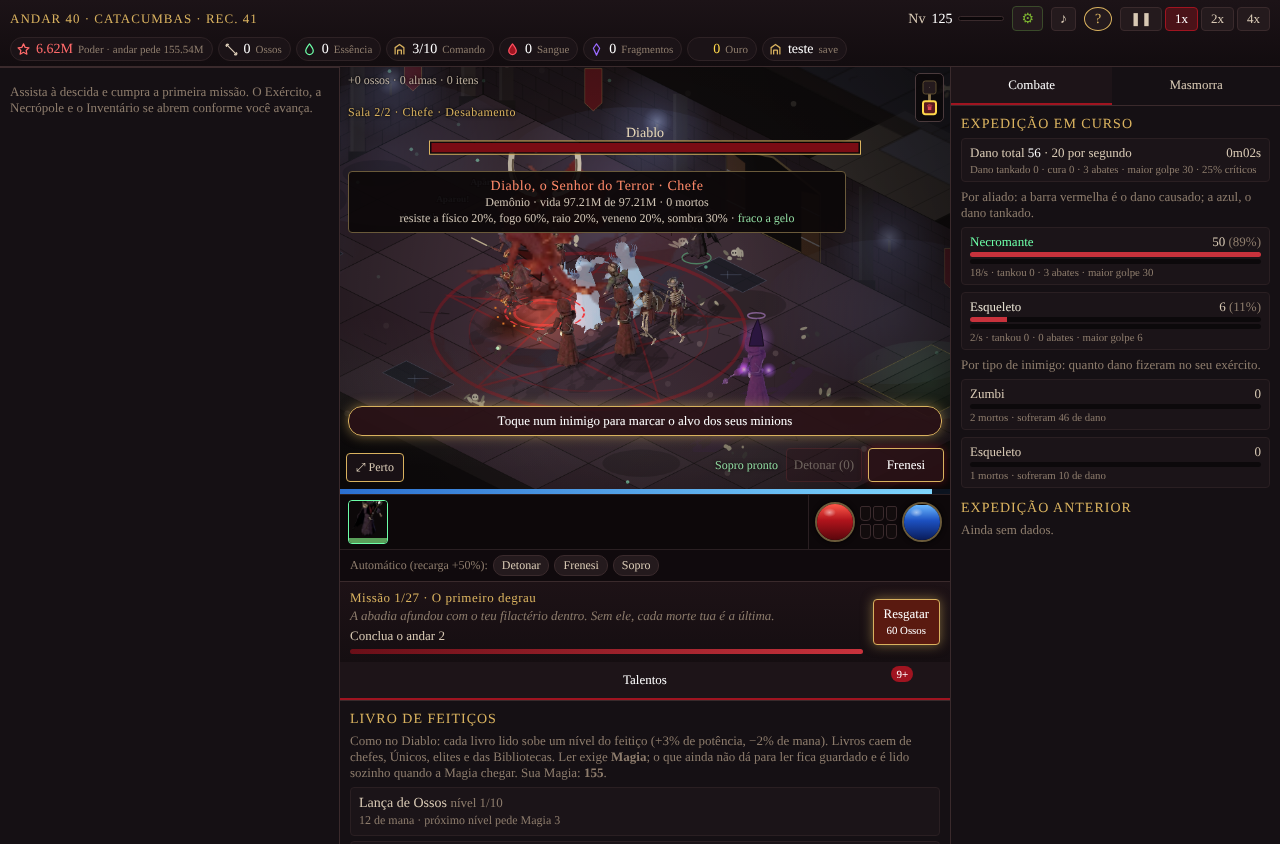
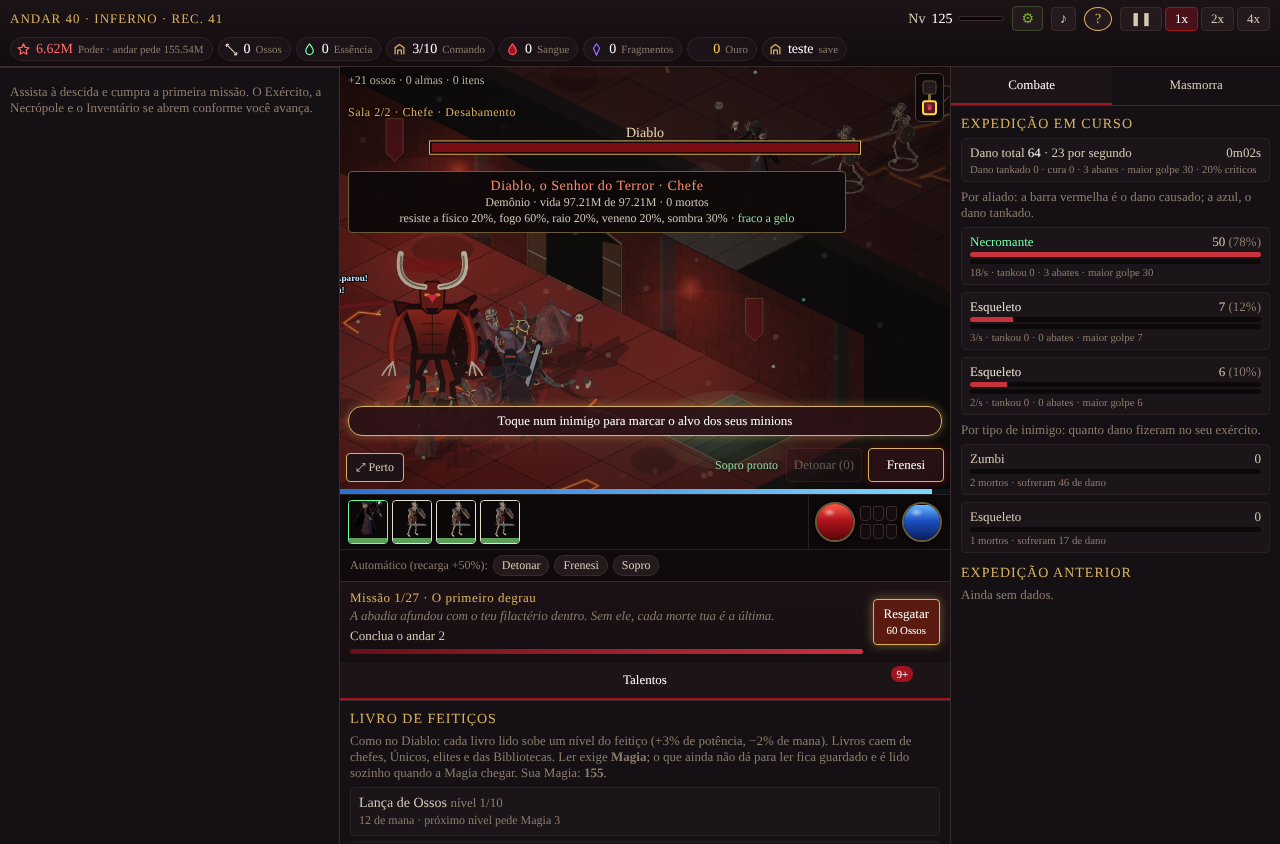
Diablo desenhado em vetor (chifres, garras, casco, cauda) e anel do Apocalipse
Claude-Session: https://claude.ai/code/session_01Bt9MtRAEw1Tz8zrHpBCPCF

diff --git a/docs/jogo.js b/docs/jogo.js
@@ -447,7 +447,7 @@ function evento(v) {
     return;
   }
   if (tipo === 'EfeitoAplicado' && v[14] === '43') {
-    tremor = Math.max(tremor, 0.6); clarao = Math.max(clarao, 0.45); som('chefe');
+    tremor = Math.max(tremor, 0.6); clarao = Math.max(clarao, 0.45); som('chefe'); apocFx.push({ p: [+v[10] + so[0], +v[11] + so[1]], r: +v[4] || 4.5, t: performance.now() }); if (apocFx.length > 4) apocFx.shift();
     vistosDeEspecie = vistosDeEspecie || {}; if (!vistosDeEspecie['43']) { vistosDeEspecie['43'] = 1; aviso('Apocalipse! · o fogo de Diablo fere todos em volta dele'); }
     return;
   }
@@ -745,7 +745,7 @@ let santuariosVistos = 0;
 let quebraveis = [];   // objetos quebráveis do andar: [sala, tipo, x, y, quebrado]
 const nomesUnicos = new Map();   // id da entidade -> nome próprio do monstro único
 let manaAbs = [0, 0], cintoMax = 3;
-let vistosDeEspecie = null, cintoHud = null, portalFx = null, muralhasFx = [], raiosFx = [], teleFx = [];
+let vistosDeEspecie = null, cintoHud = null, portalFx = null, muralhasFx = [], raiosFx = [], teleFx = [], apocFx = [];
 let bencaos = null, bencaosMostradas = '', aEspera = [];   // aEspera: inimigos já postos nas salas do andar, ainda adormecidos
 let masm = { fase: '', sala: 0, amb: 0, bencao: 0, secreto: false, ox: 0, oy: 0, tipos: [] }, salasChave = '', transicao = 0, objeto = null, perigos = [], diario = [], dicaSala = true;   // as lições de toque (LICOES) já ensinam isto
 let explor = { salas: 0, baus: 0, toques: 0, secretos: 0 };
@@ -837,8 +837,45 @@ function eventoDeSala(tipo, v, x, y) {
   else if (ts === 6) { aviso('Emboscada vencida · +' + fmt(Math.round(val)) + ' Ossos'); anotar(`Emboscada vencida: +${fmt(Math.round(val))} Ossos${toque ? ' e um item' : ''}.`); }
   else if (ts === 8) { aviso((NOME_SECRETO[sub] || 'Nível secreto') + ': tesouro tomado!'); anotar(`${NOME_SECRETO[sub] || 'Nível secreto'} limpo: +${fmt(Math.round(val))} Ossos, ${sub === 2 ? '3 itens (com chance de Lendário)' : '2 itens (um Raro)'} e Sangue.`); clarao = 0.6; brilho('#ffd84a', 80); }
 }
+// ---- Diablo, o Senhor do Terror: desenhado inteiro em vetor (não há sprite dele). Origem nos pés; u = pixels por unidade do desenho ----
+function desenharDiablo(px, py, u, s, alfa) {
+  const t = performance.now() / 1000, anim = String(s.anim || ''), conj = /Conjur/.test(anim), ataca = /Atac/.test(anim), anda = /And/.test(anim);
+  const resp = Math.sin(t * 2.2) * 2, passo = anda ? Math.sin(t * 9) : 0, lado = necro && necro.x > s.x ? 1 : -1, inclina = ataca ? 0.12 * Math.sin((tempoSim - (s.t || 0)) * 14) : 0;
+  const P2 = (x, y) => [px + x * u * lado, py + y * u];
+  const forma = (pts, cor, borda) => { ctx.beginPath(); pts.forEach(([x, y], k) => { const [qx, qy] = P2(x, y); if (k) ctx.lineTo(qx, qy); else ctx.moveTo(qx, qy); }); ctx.closePath(); if (cor) { ctx.fillStyle = cor; ctx.fill(); } if (borda) { ctx.strokeStyle = borda; ctx.stroke(); } };
+  const curva = (a, c, b, cor, larg) => { const [ax, ay] = P2(a[0], a[1]), [cx, cy] = P2(c[0], c[1]), [bx, by] = P2(b[0], b[1]); ctx.strokeStyle = cor; ctx.lineWidth = larg * u; ctx.beginPath(); ctx.moveTo(ax, ay); ctx.quadraticCurveTo(cx, cy, bx, by); ctx.stroke(); };
+  ctx.save(); ctx.globalAlpha = alfa; ctx.lineJoin = 'round'; ctx.lineCap = 'round'; ctx.lineWidth = 2;
+  if (alfa >= 1) {             // sombra e brasa no chão
+    ctx.fillStyle = 'rgba(0,0,0,0.5)'; ctx.beginPath(); ctx.ellipse(px, py, 62 * u, 24 * u, 0, 0, 7); ctx.fill();
+    const g = ctx.createRadialGradient(px, py, 4, px, py, 110 * u); g.addColorStop(0, `rgba(255,90,20,${0.30 + 0.08 * Math.sin(t * 3)})`); g.addColorStop(1, 'rgba(160,20,0,0)');
+    ctx.globalCompositeOperation = 'lighter'; ctx.fillStyle = g; ctx.beginPath(); ctx.ellipse(px, py, 110 * u, 50 * u, 0, 0, 7); ctx.fill(); ctx.globalCompositeOperation = 'source-over';
+  }
+  const escuro = '#3a0707', medio = '#7a1410', claro = '#b02a1c', traco = '#160303';
+  curva([-14, -70], [-70, -20 + 6 * Math.sin(t * 2)], [-92, -66 + 8 * Math.sin(t * 2)], escuro, 9); forma([[-92, -82 + 8 * Math.sin(t * 2)], [-102, -62 + 8 * Math.sin(t * 2)], [-84, -62 + 8 * Math.sin(t * 2)]], escuro, traco);
+  for (let q = 0; q < 5; q++) forma([[-30 - q * 3, -150 + q * 20], [-64 - q * 2, -168 + q * 21], [-30 - q * 3, -132 + q * 20]], escuro, traco);    // crista
+  forma([[-24, -84], [-40, -44 + passo * 4], [-30, -40 + passo * 4], [-34, -4], [-12, -4], [-16, -40], [-4, -84]], medio, traco);                 // perna de trás
+  forma([[4, -84], [22, -44 - passo * 4], [14, -40 - passo * 4], [14, -4], [36, -4], [30, -40], [28, -84]], medio, traco);
+  forma([[-36, 0], [-34, -8], [-10, -8], [-8, 0]], '#1a1010', traco); forma([[12, 0], [14, -8], [38, -8], [40, 0]], '#1a1010', traco);                // cascos
+  const gt = ctx.createLinearGradient(px, py - 156 * u, px, py - 76 * u); gt.addColorStop(0, claro); gt.addColorStop(1, escuro);
+  forma([[-46, -152 + resp], [46, -152 + resp], [30, -112], [24, -78], [-24, -78], [-30, -112]], gt, traco);                                           // tronco
+  ctx.strokeStyle = 'rgba(20,3,3,0.7)'; ctx.lineWidth = 1.5 * u; for (const yy of [-128, -112, -96]) { ctx.beginPath(); const [a1, b1] = P2(-16, yy), [a2, b2] = P2(16, yy); ctx.moveTo(a1, b1); ctx.lineTo(a2, b2); ctx.stroke(); }
+  { const [a1, b1] = P2(0, -146), [a2, b2] = P2(0, -84); ctx.beginPath(); ctx.moveTo(a1, b1); ctx.lineTo(a2, b2); ctx.stroke(); }
+  for (const l of [-1, 1]) {                                                                                                                           // braços e garras
+    const om = [l * 46, -146 + resp], cot = conj ? [l * 72, -176] : ataca && l === 1 ? [l * 78, -128] : [l * 68, -106], mao = conj ? [l * 62, -214 + 4 * Math.sin(t * 18)] : ataca && l === 1 ? [l * 104, -118 + inclina * 80] : [l * 60, -68 + resp];
+    curva(om, cot, mao, medio, 15); curva(om, cot, mao, claro, 6);
+    for (const dq of [-7, 0, 7]) curva(mao, [mao[0] + l * 4 + dq, mao[1] + (conj ? -10 : 10)], [mao[0] + l * 6 + dq * 1.4, mao[1] + (conj ? -20 : 20)], '#e8dcc8', 2.5);
+    forma([[l * 34, -156 + resp], [l * 58, -160 + resp], [l * 52, -138 + resp]], escuro, traco);                                                       // ombreira de osso
+  }
+  forma([[-17, -150 + resp], [-19, -176 + resp], [-9, -190 + resp], [9, -190 + resp], [19, -176 + resp], [17, -150 + resp], [8, -142 + resp], [-8, -142 + resp]], medio, traco);   // cabeça
+  forma([[-10, -150 + resp], [10, -150 + resp], [5, -140 + resp], [-5, -140 + resp]], '#12060a', null);                                                 // boca
+  for (const l of [-1, 1]) { curva([l * 12, -182 + resp], [l * 58, -184 + resp], [l * 48, -232 + resp], '#e8dcc8', 9); curva([l * 12, -182 + resp], [l * 54, -186 + resp], [l * 47, -228 + resp], '#8a7a66', 3); }   // chifres
+  ctx.globalCompositeOperation = 'lighter'; ctx.fillStyle = `rgba(255,220,90,${(0.8 + 0.2 * Math.sin(t * 7)) * alfa})`;
+  for (const l of [-1, 1]) { const [ex, ey] = P2(l * 8, -170 + resp); ctx.beginPath(); ctx.ellipse(ex, ey, 4.5 * u, 2.5 * u, 0, 0, 7); ctx.fill(); }
+  if (conj) { const [cx2, cy2] = P2(0, -214); const gc = ctx.createRadialGradient(cx2, cy2, 0, cx2, cy2, 60 * u); gc.addColorStop(0, 'rgba(255,230,150,0.8)'); gc.addColorStop(0.4, 'rgba(255,110,20,0.5)'); gc.addColorStop(1, 'rgba(160,20,0,0)'); ctx.fillStyle = gc; ctx.beginPath(); ctx.arc(cx2, cy2, 60 * u, 0, 7); ctx.fill(); }
+  ctx.restore(); ctx.lineWidth = 1;
+}
 // ---- silhueta própria dos monstros que ainda usam um sprite emprestado: desenhada por trás (camada 0) e pela frente (camada 1) ----
-const ADORNOS = { Sucubo: 1, Magistrado: 1, CavaleiroNegro: 1, Lazarus: 1, Diablo: 1 };
+const ADORNOS = { Sucubo: 1, Magistrado: 1, CavaleiroNegro: 1, Lazarus: 1 };
 function adorno(especie, camada, px, py, e, id) {
   const t = performance.now() / 1000 + id * 0.37;
   ctx.save(); ctx.lineJoin = 'round'; ctx.lineCap = 'round';
@@ -1208,6 +1245,19 @@ function desenhar(dt) {
       ctx.restore(); ctx.lineWidth = 1;
     }
   }
+  if (apocFx.length) {      // Apocalipse: anel de fogo que se abre no chão até o raio do golpe
+    const agoraA = performance.now(); apocFx = apocFx.filter((a) => agoraA - a.t < 800);
+    ctx.save(); ctx.globalCompositeOperation = 'lighter'; ctx.lineJoin = 'round';
+    for (const a of apocFx) {
+      const fA = (agoraA - a.t) / 800, abre = Math.min(1, fA / 0.6), rA = a.r * (0.15 + 0.85 * abre), forcaA = 1 - Math.max(0, (fA - 0.6) / 0.4);
+      const volta = (raio) => { ctx.beginPath(); for (let k = 0; k <= 40; k++) { const an = k / 40 * Math.PI * 2, [qx, qy] = W(a.p[0] + Math.cos(an) * raio, a.p[1] + Math.sin(an) * raio); if (k) ctx.lineTo(qx, qy); else ctx.moveTo(qx, qy); } ctx.closePath(); };
+      volta(rA); ctx.fillStyle = `rgba(255,90,10,${0.16 * forcaA})`; ctx.fill();
+      ctx.strokeStyle = `rgba(255,140,30,${0.85 * forcaA})`; ctx.lineWidth = 9 * reforco; ctx.stroke();
+      ctx.strokeStyle = `rgba(255,240,180,${0.9 * forcaA})`; ctx.lineWidth = 3 * reforco; ctx.stroke();
+      for (let k = 0; k < 14; k++) { const an = k / 14 * Math.PI * 2 + fA * 2, [qx, qy] = W(a.p[0] + Math.cos(an) * rA, a.p[1] + Math.sin(an) * rA), hf = (26 + 12 * Math.sin(agoraA / 90 + k)) * reforco * forcaA, gl = ctx.createRadialGradient(qx, qy - hf * 0.4, 1, qx, qy - hf * 0.4, hf); gl.addColorStop(0, `rgba(255,230,140,${0.8 * forcaA})`); gl.addColorStop(0.4, `rgba(255,120,20,${0.5 * forcaA})`); gl.addColorStop(1, 'rgba(160,20,0,0)'); ctx.fillStyle = gl; ctx.beginPath(); ctx.ellipse(qx, qy - hf * 0.45, 11 * reforco, hf, 0, 0, 7); ctx.fill(); }
+    }
+    ctx.restore(); ctx.lineWidth = 1;
+  }
   if (teleFx.length) {      // teleporte: anel roxo que se abre onde o Magistrado some e onde reaparece
     const agoraT = performance.now(); teleFx = teleFx.filter((t) => agoraT - t.t < 600);
     ctx.save(); ctx.globalCompositeOperation = 'lighter';
@@ -1294,7 +1344,8 @@ function desenhar(dt) {
     const prov = s.necro ? null : (masm.qualSecreto === 3 && s.inimigo ? [null, 1, '60,80,210', 0.5] : nomesUnicos.get(s.id) === 'O Açougueiro' ? [null, 1.6, '170,20,24', 0.36] : nomesUnicos.get(s.id) === 'Rei Esqueleto' ? [null, 1.55, '230,200,90', 0.22] : nomesUnicos.get(s.id) === 'Golem de Ossos' ? [null, 1.25, '120,230,170', 0.3] : s.campeao ? [null, 1.12, '70,130,255', 0.34] : visual(s.especie)), e = prov ? prov[1] : 1;   // Cripta dos Espelhos: os reflexos são sombras azuladas
     const dx0 = Math.round(px - m.pivo[0] * e), dy0 = Math.round(py - (m.H - m.pivo[1]) * e);
     if (!morto && ADORNOS[s.especie]) adorno(s.especie, 0, px, py, e, s.id);
-    if (prov && !(morto && COR_MORTE[s.cond])) {
+    if (s.especie === 'Diablo' && !morto) desenharDiablo(px, py, reforco, s, 1);
+    else if (prov && !(morto && COR_MORTE[s.cond])) {
       if (tinta.width !== m.W || tinta.height !== m.H) { tinta.width = m.W; tinta.height = m.H; }
       tctx.globalCompositeOperation = 'source-over'; tctx.clearRect(0, 0, m.W, m.H); tctx.drawImage(img, sx, sy, m.W, m.H, 0, 0, m.W, m.H);
       tctx.globalCompositeOperation = 'source-atop'; tctx.fillStyle = `rgba(${prov[2]},${prov[3]})`; tctx.fillRect(0, 0, m.W, m.H);
@@ -1307,7 +1358,8 @@ function desenhar(dt) {
       ctx.drawImage(tinta, 0, 0, m.W, m.H, dx0, dy0, m.W * e, m.H * e);
     } else ctx.drawImage(img, sx, sy, m.W, m.H, dx0, dy0, m.W * e, m.H * e);
     if (!morto && ADORNOS[s.especie]) adorno(s.especie, 1, px, py, e, s.id);
-    if (!morto && s.flash > 0) {
+    if (!morto && s.flash > 0 && s.especie === 'Diablo') { s.flash -= dt; ctx.globalCompositeOperation = 'lighter'; desenharDiablo(px, py, reforco, s, Math.min(1, s.flash * 9) * 0.6); ctx.globalCompositeOperation = 'source-over'; }
+    else if (!morto && s.flash > 0) {
       // clarão de impacto: o mesmo quadro somado por cima
       s.flash -= dt; ctx.globalCompositeOperation = 'lighter'; ctx.globalAlpha = Math.min(1, s.flash * 9);
       ctx.drawImage(img, sx, sy, m.W, m.H, dx0, dy0, m.W * e, m.H * e); ctx.globalAlpha = 1; ctx.globalCompositeOperation = 'source-over';
@@ -2051,6 +2103,7 @@ window.__ficha = () => fichaTxt;
 window.__imune = () => (vistosDeEspecie && vistosDeEspecie['38']) ? 1 : 0;
 window.__marcarUnico = () => { for (const e of estado.values()) if (e.viva && nomesUnicos.has(e.id) && e.inimigo && J) { J.Marcar(e.id); return true; } return false; };
 window.__marcarEspecie = (nome) => { for (const e of estado.values()) if (e.viva && e.inimigo && e.especie === nome && J) { J.Marcar(e.id); return true; } return false; };
+window.__apoc = () => apocFx.length;
 window.__teles = () => teleFx.length;
 window.__raios = () => raiosFx.length;
 for (const idG of ['g-vida', 'g-mana']) $(idG).addEventListener('click', () => { const g = $(idG); g.classList.add('mostra'); clearTimeout(g.tm); g.tm = setTimeout(() => g.classList.remove('mostra'), 2500); });

diff --git a/jogo/Web/wwwroot/jogo.js b/jogo/Web/wwwroot/jogo.js
@@ -447,7 +447,7 @@ function evento(v) {
     return;
   }
   if (tipo === 'EfeitoAplicado' && v[14] === '43') {
-    tremor = Math.max(tremor, 0.6); clarao = Math.max(clarao, 0.45); som('chefe');
+    tremor = Math.max(tremor, 0.6); clarao = Math.max(clarao, 0.45); som('chefe'); apocFx.push({ p: [+v[10] + so[0], +v[11] + so[1]], r: +v[4] || 4.5, t: performance.now() }); if (apocFx.length > 4) apocFx.shift();
     vistosDeEspecie = vistosDeEspecie || {}; if (!vistosDeEspecie['43']) { vistosDeEspecie['43'] = 1; aviso('Apocalipse! · o fogo de Diablo fere todos em volta dele'); }
     return;
   }
@@ -745,7 +745,7 @@ let santuariosVistos = 0;
 let quebraveis = [];   // objetos quebráveis do andar: [sala, tipo, x, y, quebrado]
 const nomesUnicos = new Map();   // id da entidade -> nome próprio do monstro único
 let manaAbs = [0, 0], cintoMax = 3;
-let vistosDeEspecie = null, cintoHud = null, portalFx = null, muralhasFx = [], raiosFx = [], teleFx = [];
+let vistosDeEspecie = null, cintoHud = null, portalFx = null, muralhasFx = [], raiosFx = [], teleFx = [], apocFx = [];
 let bencaos = null, bencaosMostradas = '', aEspera = [];   // aEspera: inimigos já postos nas salas do andar, ainda adormecidos
 let masm = { fase: '', sala: 0, amb: 0, bencao: 0, secreto: false, ox: 0, oy: 0, tipos: [] }, salasChave = '', transicao = 0, objeto = null, perigos = [], diario = [], dicaSala = true;   // as lições de toque (LICOES) já ensinam isto
 let explor = { salas: 0, baus: 0, toques: 0, secretos: 0 };
@@ -837,8 +837,45 @@ function eventoDeSala(tipo, v, x, y) {
   else if (ts === 6) { aviso('Emboscada vencida · +' + fmt(Math.round(val)) + ' Ossos'); anotar(`Emboscada vencida: +${fmt(Math.round(val))} Ossos${toque ? ' e um item' : ''}.`); }
   else if (ts === 8) { aviso((NOME_SECRETO[sub] || 'Nível secreto') + ': tesouro tomado!'); anotar(`${NOME_SECRETO[sub] || 'Nível secreto'} limpo: +${fmt(Math.round(val))} Ossos, ${sub === 2 ? '3 itens (com chance de Lendário)' : '2 itens (um Raro)'} e Sangue.`); clarao = 0.6; brilho('#ffd84a', 80); }
 }
+// ---- Diablo, o Senhor do Terror: desenhado inteiro em vetor (não há sprite dele). Origem nos pés; u = pixels por unidade do desenho ----
+function desenharDiablo(px, py, u, s, alfa) {
+  const t = performance.now() / 1000, anim = String(s.anim || ''), conj = /Conjur/.test(anim), ataca = /Atac/.test(anim), anda = /And/.test(anim);
+  const resp = Math.sin(t * 2.2) * 2, passo = anda ? Math.sin(t * 9) : 0, lado = necro && necro.x > s.x ? 1 : -1, inclina = ataca ? 0.12 * Math.sin((tempoSim - (s.t || 0)) * 14) : 0;
+  const P2 = (x, y) => [px + x * u * lado, py + y * u];
+  const forma = (pts, cor, borda) => { ctx.beginPath(); pts.forEach(([x, y], k) => { const [qx, qy] = P2(x, y); if (k) ctx.lineTo(qx, qy); else ctx.moveTo(qx, qy); }); ctx.closePath(); if (cor) { ctx.fillStyle = cor; ctx.fill(); } if (borda) { ctx.strokeStyle = borda; ctx.stroke(); } };
+  const curva = (a, c, b, cor, larg) => { const [ax, ay] = P2(a[0], a[1]), [cx, cy] = P2(c[0], c[1]), [bx, by] = P2(b[0], b[1]); ctx.strokeStyle = cor; ctx.lineWidth = larg * u; ctx.beginPath(); ctx.moveTo(ax, ay); ctx.quadraticCurveTo(cx, cy, bx, by); ctx.stroke(); };
+  ctx.save(); ctx.globalAlpha = alfa; ctx.lineJoin = 'round'; ctx.lineCap = 'round'; ctx.lineWidth = 2;
+  if (alfa >= 1) {             // sombra e brasa no chão
+    ctx.fillStyle = 'rgba(0,0,0,0.5)'; ctx.beginPath(); ctx.ellipse(px, py, 62 * u, 24 * u, 0, 0, 7); ctx.fill();
+    const g = ctx.createRadialGradient(px, py, 4, px, py, 110 * u); g.addColorStop(0, `rgba(255,90,20,${0.30 + 0.08 * Math.sin(t * 3)})`); g.addColorStop(1, 'rgba(160,20,0,0)');
+    ctx.globalCompositeOperation = 'lighter'; ctx.fillStyle = g; ctx.beginPath(); ctx.ellipse(px, py, 110 * u, 50 * u, 0, 0, 7); ctx.fill(); ctx.globalCompositeOperation = 'source-over';
+  }
+  const escuro = '#3a0707', medio = '#7a1410', claro = '#b02a1c', traco = '#160303';
+  curva([-14, -70], [-70, -20 + 6 * Math.sin(t * 2)], [-92, -66 + 8 * Math.sin(t * 2)], escuro, 9); forma([[-92, -82 + 8 * Math.sin(t * 2)], [-102, -62 + 8 * Math.sin(t * 2)], [-84, -62 + 8 * Math.sin(t * 2)]], escuro, traco);
+  for (let q = 0; q < 5; q++) forma([[-30 - q * 3, -150 + q * 20], [-64 - q * 2, -168 + q * 21], [-30 - q * 3, -132 + q * 20]], escuro, traco);    // crista
+  forma([[-24, -84], [-40, -44 + passo * 4], [-30, -40 + passo * 4], [-34, -4], [-12, -4], [-16, -40], [-4, -84]], medio, traco);                 // perna de trás
+  forma([[4, -84], [22, -44 - passo * 4], [14, -40 - passo * 4], [14, -4], [36, -4], [30, -40], [28, -84]], medio, traco);
+  forma([[-36, 0], [-34, -8], [-10, -8], [-8, 0]], '#1a1010', traco); forma([[12, 0], [14, -8], [38, -8], [40, 0]], '#1a1010', traco);                // cascos
+  const gt = ctx.createLinearGradient(px, py - 156 * u, px, py - 76 * u); gt.addColorStop(0, claro); gt.addColorStop(1, escuro);
+  forma([[-46, -152 + resp], [46, -152 + resp], [30, -112], [24, -78], [-24, -78], [-30, -112]], gt, traco);                                           // tronco
+  ctx.strokeStyle = 'rgba(20,3,3,0.7)'; ctx.lineWidth = 1.5 * u; for (const yy of [-128, -112, -96]) { ctx.beginPath(); const [a1, b1] = P2(-16, yy), [a2, b2] = P2(16, yy); ctx.moveTo(a1, b1); ctx.lineTo(a2, b2); ctx.stroke(); }
+  { const [a1, b1] = P2(0, -146), [a2, b2] = P2(0, -84); ctx.beginPath(); ctx.moveTo(a1, b1); ctx.lineTo(a2, b2); ctx.stroke(); }
+  for (const l of [-1, 1]) {                                                                                                                           // braços e garras
+    const om = [l * 46, -146 + resp], cot = conj ? [l * 72, -176] : ataca && l === 1 ? [l * 78, -128] : [l * 68, -106], mao = conj ? [l * 62, -214 + 4 * Math.sin(t * 18)] : ataca && l === 1 ? [l * 104, -118 + inclina * 80] : [l * 60, -68 + resp];
+    curva(om, cot, mao, medio, 15); curva(om, cot, mao, claro, 6);
+    for (const dq of [-7, 0, 7]) curva(mao, [mao[0] + l * 4 + dq, mao[1] + (conj ? -10 : 10)], [mao[0] + l * 6 + dq * 1.4, mao[1] + (conj ? -20 : 20)], '#e8dcc8', 2.5);
+    forma([[l * 34, -156 + resp], [l * 58, -160 + resp], [l * 52, -138 + resp]], escuro, traco);                                                       // ombreira de osso
+  }
+  forma([[-17, -150 + resp], [-19, -176 + resp], [-9, -190 + resp], [9, -190 + resp], [19, -176 + resp], [17, -150 + resp], [8, -142 + resp], [-8, -142 + resp]], medio, traco);   // cabeça
+  forma([[-10, -150 + resp], [10, -150 + resp], [5, -140 + resp], [-5, -140 + resp]], '#12060a', null);                                                 // boca
+  for (const l of [-1, 1]) { curva([l * 12, -182 + resp], [l * 58, -184 + resp], [l * 48, -232 + resp], '#e8dcc8', 9); curva([l * 12, -182 + resp], [l * 54, -186 + resp], [l * 47, -228 + resp], '#8a7a66', 3); }   // chifres
+  ctx.globalCompositeOperation = 'lighter'; ctx.fillStyle = `rgba(255,220,90,${(0.8 + 0.2 * Math.sin(t * 7)) * alfa})`;
+  for (const l of [-1, 1]) { const [ex, ey] = P2(l * 8, -170 + resp); ctx.beginPath(); ctx.ellipse(ex, ey, 4.5 * u, 2.5 * u, 0, 0, 7); ctx.fill(); }
+  if (conj) { const [cx2, cy2] = P2(0, -214); const gc = ctx.createRadialGradient(cx2, cy2, 0, cx2, cy2, 60 * u); gc.addColorStop(0, 'rgba(255,230,150,0.8)'); gc.addColorStop(0.4, 'rgba(255,110,20,0.5)'); gc.addColorStop(1, 'rgba(160,20,0,0)'); ctx.fillStyle = gc; ctx.beginPath(); ctx.arc(cx2, cy2, 60 * u, 0, 7); ctx.fill(); }
+  ctx.restore(); ctx.lineWidth = 1;
+}
 // ---- silhueta própria dos monstros que ainda usam um sprite emprestado: desenhada por trás (camada 0) e pela frente (camada 1) ----
-const ADORNOS = { Sucubo: 1, Magistrado: 1, CavaleiroNegro: 1, Lazarus: 1, Diablo: 1 };
+const ADORNOS = { Sucubo: 1, Magistrado: 1, CavaleiroNegro: 1, Lazarus: 1 };
 function adorno(especie, camada, px, py, e, id) {
   const t = performance.now() / 1000 + id * 0.37;
   ctx.save(); ctx.lineJoin = 'round'; ctx.lineCap = 'round';
@@ -1208,6 +1245,19 @@ function desenhar(dt) {
       ctx.restore(); ctx.lineWidth = 1;
     }
   }
+  if (apocFx.length) {      // Apocalipse: anel de fogo que se abre no chão até o raio do golpe
+    const agoraA = performance.now(); apocFx = apocFx.filter((a) => agoraA - a.t < 800);
+    ctx.save(); ctx.globalCompositeOperation = 'lighter'; ctx.lineJoin = 'round';
+    for (const a of apocFx) {
+      const fA = (agoraA - a.t) / 800, abre = Math.min(1, fA / 0.6), rA = a.r * (0.15 + 0.85 * abre), forcaA = 1 - Math.max(0, (fA - 0.6) / 0.4);
+      const volta = (raio) => { ctx.beginPath(); for (let k = 0; k <= 40; k++) { const an = k / 40 * Math.PI * 2, [qx, qy] = W(a.p[0] + Math.cos(an) * raio, a.p[1] + Math.sin(an) * raio); if (k) ctx.lineTo(qx, qy); else ctx.moveTo(qx, qy); } ctx.closePath(); };
+      volta(rA); ctx.fillStyle = `rgba(255,90,10,${0.16 * forcaA})`; ctx.fill();
+      ctx.strokeStyle = `rgba(255,140,30,${0.85 * forcaA})`; ctx.lineWidth = 9 * reforco; ctx.stroke();
+      ctx.strokeStyle = `rgba(255,240,180,${0.9 * forcaA})`; ctx.lineWidth = 3 * reforco; ctx.stroke();
+      for (let k = 0; k < 14; k++) { const an = k / 14 * Math.PI * 2 + fA * 2, [qx, qy] = W(a.p[0] + Math.cos(an) * rA, a.p[1] + Math.sin(an) * rA), hf = (26 + 12 * Math.sin(agoraA / 90 + k)) * reforco * forcaA, gl = ctx.createRadialGradient(qx, qy - hf * 0.4, 1, qx, qy - hf * 0.4, hf); gl.addColorStop(0, `rgba(255,230,140,${0.8 * forcaA})`); gl.addColorStop(0.4, `rgba(255,120,20,${0.5 * forcaA})`); gl.addColorStop(1, 'rgba(160,20,0,0)'); ctx.fillStyle = gl; ctx.beginPath(); ctx.ellipse(qx, qy - hf * 0.45, 11 * reforco, hf, 0, 0, 7); ctx.fill(); }
+    }
+    ctx.restore(); ctx.lineWidth = 1;
+  }
   if (teleFx.length) {      // teleporte: anel roxo que se abre onde o Magistrado some e onde reaparece
     const agoraT = performance.now(); teleFx = teleFx.filter((t) => agoraT - t.t < 600);
     ctx.save(); ctx.globalCompositeOperation = 'lighter';
@@ -1294,7 +1344,8 @@ function desenhar(dt) {
     const prov = s.necro ? null : (masm.qualSecreto === 3 && s.inimigo ? [null, 1, '60,80,210', 0.5] : nomesUnicos.get(s.id) === 'O Açougueiro' ? [null, 1.6, '170,20,24', 0.36] : nomesUnicos.get(s.id) === 'Rei Esqueleto' ? [null, 1.55, '230,200,90', 0.22] : nomesUnicos.get(s.id) === 'Golem de Ossos' ? [null, 1.25, '120,230,170', 0.3] : s.campeao ? [null, 1.12, '70,130,255', 0.34] : visual(s.especie)), e = prov ? prov[1] : 1;   // Cripta dos Espelhos: os reflexos são sombras azuladas
     const dx0 = Math.round(px - m.pivo[0] * e), dy0 = Math.round(py - (m.H - m.pivo[1]) * e);
     if (!morto && ADORNOS[s.especie]) adorno(s.especie, 0, px, py, e, s.id);
-    if (prov && !(morto && COR_MORTE[s.cond])) {
+    if (s.especie === 'Diablo' && !morto) desenharDiablo(px, py, reforco, s, 1);
+    else if (prov && !(morto && COR_MORTE[s.cond])) {
       if (tinta.width !== m.W || tinta.height !== m.H) { tinta.width = m.W; tinta.height = m.H; }
       tctx.globalCompositeOperation = 'source-over'; tctx.clearRect(0, 0, m.W, m.H); tctx.drawImage(img, sx, sy, m.W, m.H, 0, 0, m.W, m.H);
       tctx.globalCompositeOperation = 'source-atop'; tctx.fillStyle = `rgba(${prov[2]},${prov[3]})`; tctx.fillRect(0, 0, m.W, m.H);
@@ -1307,7 +1358,8 @@ function desenhar(dt) {
       ctx.drawImage(tinta, 0, 0, m.W, m.H, dx0, dy0, m.W * e, m.H * e);
     } else ctx.drawImage(img, sx, sy, m.W, m.H, dx0, dy0, m.W * e, m.H * e);
     if (!morto && ADORNOS[s.especie]) adorno(s.especie, 1, px, py, e, s.id);
-    if (!morto && s.flash > 0) {
+    if (!morto && s.flash > 0 && s.especie === 'Diablo') { s.flash -= dt; ctx.globalCompositeOperation = 'lighter'; desenharDiablo(px, py, reforco, s, Math.min(1, s.flash * 9) * 0.6); ctx.globalCompositeOperation = 'source-over'; }
+    else if (!morto && s.flash > 0) {
       // clarão de impacto: o mesmo quadro somado por cima
       s.flash -= dt; ctx.globalCompositeOperation = 'lighter'; ctx.globalAlpha = Math.min(1, s.flash * 9);
       ctx.drawImage(img, sx, sy, m.W, m.H, dx0, dy0, m.W * e, m.H * e); ctx.globalAlpha = 1; ctx.globalCompositeOperation = 'source-over';
@@ -2051,6 +2103,7 @@ window.__ficha = () => fichaTxt;
 window.__imune = () => (vistosDeEspecie && vistosDeEspecie['38']) ? 1 : 0;
 window.__marcarUnico = () => { for (const e of estado.values()) if (e.viva && nomesUnicos.has(e.id) && e.inimigo && J) { J.Marcar(e.id); return true; } return false; };
 window.__marcarEspecie = (nome) => { for (const e of estado.values()) if (e.viva && e.inimigo && e.especie === nome && J) { J.Marcar(e.id); return true; } return false; };
+window.__apoc = () => apocFx.length;
 window.__teles = () => teleFx.length;
 window.__raios = () => raiosFx.length;
 for (const idG of ['g-vida', 'g-mana']) $(idG).addEventListener('click', () => { const g = $(idG); g.classList.add('mostra'); clearTimeout(g.tm); g.tm = setTimeout(() => g.classList.remove('mostra'), 2500); });

diff --git a/jogo/PLANO_CICLOS.md b/jogo/PLANO_CICLOS.md
@@ -346,3 +346,4 @@ Dono pediu ciclos a cada 5 minutos.
 178. (1) PESADELO REMEDIDO com 5 campanhas (--dificuldades 5 34), já com Súcubo, Relâmpago, Cavaleiro Negro e Magistrado: Normal até o chefe do Ato 2 7,99 h; Pesadelo, desde a troca, chefe do Ato 1 8,61 h e chefe do Ato 2 24,44 h (era 22,39 com 3 campanhas no 172; 16,39 antes das imunidades); Inferno não alcançado em 34 h. O Pesadelo inteiro leva na casa de 24 h — NADA foi mudado: mexidas pequenas deram resultado caótico no 172; fica a pergunta ao dono se quer o Pesadelo mais curto. (2) Silhueta própria para os três monstros sem sprite (tela; função adorno, camadas atrás/frente do sprite emprestado): Súcubo com asas de morcego que batem, cauda e chifres; Magistrado com capuz em ponta, halo roxo e mãos acesas; Cavaleiro Negro com elmo de chifres e viseira em brasa, ombreiras e espada larga às costas. Conferido por captura no computador (imagens/silhuetas_monstros.png: Súcubo alada e Cavaleiro com a espada, pequenos mas distinguíveis); o Magistrado NÃO foi visto de perto (a câmera não estava nele) nem nada disso a 390 px. Nomes com acento na lista "por tipo de inimigo". (3) DEFEITO achado e corrigido: no celular, em modo Perto, a ficha do inimigo (item 168) ficava em baixo, por cima da luta; foi para o topo da arena (abaixo da linha "Sala x/y", sem cobrir o minimapa), some quando um cartão de escolha abre, e o aviso central desce um pouco quando ela está aberta; conferido no computador e a 390 px. O cinto com frascos cheios apareceu numa captura (1 de vida, 1 de mana). teste_web4 sem erros. Núcleo intocado (portão do 177 vale). Publicado 1795764738-b19f.
 179. ATO 3 com chefe próprio. Achado na leitura: os atos já continuavam sem fim (10 andares cada) e o andar 30 repetia a Abadessa. Agora o chefe do Ato 3 é o ARCEBISPO LÁZARUS (EspecieId.Lazarus = 17; Aberração colossal, atirador de sombra, vida 560, dano 22, alcance 8; resiste 50% a fogo e 40% a sombra, fraco a raio) e TabelaEspecies.ChefeDoAto roda em ciclo de três (Abadessa, Carcereiro, Lázarus; o Ato 4 volta à Abadessa). A cada 7 s (RitoDeLazarus) ele acende uma MURALHA DE FOGO inimiga atravessada sobre a linha de frente do exército (4 s, 20% do dano dele por pulso em todo aliado dentro dela; MuralhaDeFogo.Inimiga/DonoId) e chama uma Súcubo (até 3 em campo); quando um aliado chega a 2,6 dele, teleporta-se (mesma recarga do Magistrado). A primeira versão mirava a muralha no necromante parado e matava o grupo sem defesa — por isso passou a mirar a linha de frente e o dano caiu de 35% para 20%. Tela: figura provisória (acólito tingido de vermelho-escuro, 1,9x) com mitra, estola e cajado de globo aceso desenhados por cima; a muralha dele é VERDE (a do jogador segue laranja) e várias muralhas podem coexistir (muralhasFx); aviso próprio; a ficha do inimigo desce quando há chefe em campo para não cobrir a barra dele. Teste novo (149): Lázarus no andar 30 em 4/4, um exército forte o vence em 2/4, 8 muralhas, 15 teleportes, 13 súcubos. Portão ausente 9/9 idêntico ao 177 (nada muda até o andar 20): 1,40 h / 3,13 h / 7,84 h; ativo igual. MEDIDO (4 campanhas, sem ascender): primeira vida até vencer Lázarus 20,68 h; vidas seguintes sem gastar Cinzas 14,67 h e 13,22 h; ascender depois dele rende 42 Cinzas. Capturas: no computador, Lázarus em campo com a ficha de chefe (imagens/lazarus.png); a 390 px só o aviso da muralha (o grupo já tinha caído) — a muralha verde NÃO foi vista. Publicado 1795765595-ed06.
 180. ATO 4 E O FIM DA CAMPANHA (D2). Chefe do andar 40: DIABLO, o Senhor do Terror (EspecieId.Diablo = 18; Demônio colossal, corpo a corpo: vida 900, dano 30, armadura 50; resiste 60% a fogo, fraco a gelo). ChefeDoAto roda em ciclo de quatro (Abadessa, Carcereiro, Lázarus, Diablo). A cada 6 s ele solta o APOCALIPSE: um anel de fogo de raio 4,5 em volta dele que fere todo aliado dentro (80% do dano dele; evento 43 + a explosão que a tela já desenhava). Os andares 37 a 40 são sempre do tema Inferno (Temas.Do e temaDoAndar). DESFECHO: ao vencer o chefe do ato final (Cfg.AtoFinal = 4) numa dificuldade pela primeira vez, AplicarResultado marca EstadoProgresso.CampanhaVencida (bit por dificuldade; atravessa a Ascensão), entrega um item Único TRAVADO e liga VitoriaPendente; a tela mostra uma vez "O Senhor do Terror caiu" com a dificuldade vencida, o que vem depois (Pesadelo/Inferno, Cinzas) e três números (inimigos mortos, vidas, nível); "Continuar a descida" fecha (ReconhecerVitoria) e o jogo segue. A lista de dificuldades marca "Diablo vencido". Cheat "vitoria" para ver a tela. Teste novo (150): Diablo no andar 40 em 4/4, 18 apocalipses, vencido 4/4 por um exército forte; marco, prêmio único e não repetição conferidos. Portão ausente 9/9 idêntico (nada muda até o andar 20). MEDIDO (3 campanhas, sem ascender): a campanha inteira do Normal, até Diablo cair, leva 43,07 h na primeira vida (Lázarus em ~20,7 h); vidas seguintes 19,47 h e 14,17 h; ascender depois dele rende 72 Cinzas. Capturas: tela de vitória a 390 px e no computador (imagens/vitoria.png); Diablo em campo com a ficha de chefe (imagens/diablo.png) — a figura provisória (diabrete ampliado 3x e avermelhado, com chifres e crista desenhados) fica borrada e pouco legível no meio do exército: PRECISA de arte melhor. Na mesma captura o Magistrado aparece de perto com capuz e halo (silhueta do 178 confirmada). NÃO conferido: o anel do Apocalipse na tela; a vitória disparada por uma luta real na página. Publicado 1795766419-4a98.
+181. Arte de Diablo (D3, só tela). O chefe do andar 40 deixou de ser um sprite emprestado ampliado: desenharDiablo() o desenha inteiro em vetor no canvas — tronco vermelho com degradê e abdômen marcado, pernas de casco, braços com garras, cauda, crista de espinhos, ombreiras de osso, cabeça com dois chifres grandes e olhos acesos, sombra e brasa no chão; vira para o lado do necromante; respira parado, alterna as pernas ao andar, estende o braço ao atacar e ergue os dois com um clarão ao conjurar; o clarão de impacto usa o mesmo desenho. O cadáver e o vulto "à espera" ainda usam o sprite antigo. ANEL DO APOCALIPSE: o evento 43 abre no chão um anel de fogo (contorno laranja e branco com 14 labaredas) que cresce até o raio do golpe em 0,5 s e some em 0,8 s. Capturas conferidas: Diablo nítido e reconhecível no computador (modo Perto) e a 390 px (modo Sala) com a ficha de chefe e a barra dele (imagens/diablo.png, diablo_celular.png); do anel só se viu um arco na borda de uma captura — NÃO conferido inteiro. Observado: com os números do atalho de teste (nível 125, exército fraco) o primeiro Apocalipse derruba o grupo todo; na campanha medida ele é vencível (43 h, item 180). teste_web4 sem erros. Núcleo intocado (portão do 180 vale). Publicado 1795767045-93a8.

diff --git a/jogo/ROTEIRO_DIABLO.md b/jogo/ROTEIRO_DIABLO.md
@@ -60,4 +60,4 @@ O dono escolheu três frentes: masmorra contínua, combate e feitiços, progress
 
 - D1. [feito no item 179] Ato 3 (andares 21-30) com chefe próprio: Arcebispo Lázarus (muralha de fogo inimiga, teleporte, Súcubos). Medido: 20,68 h na primeira vida.
 - D2. [feito no item 180] Ato 4 com Diablo no andar 40 (Apocalipse) e desfecho de campanha por dificuldade. Medido: 43,07 h a campanha do Normal na primeira vida.
-- D3. [a fazer] Arte própria de Diablo (a provisória é ilegível) e conferir o Apocalipse na tela.
+- D3. [feito no item 181] Diablo desenhado em vetor e anel do Apocalipse (o anel inteiro ainda não foi visto em captura).
